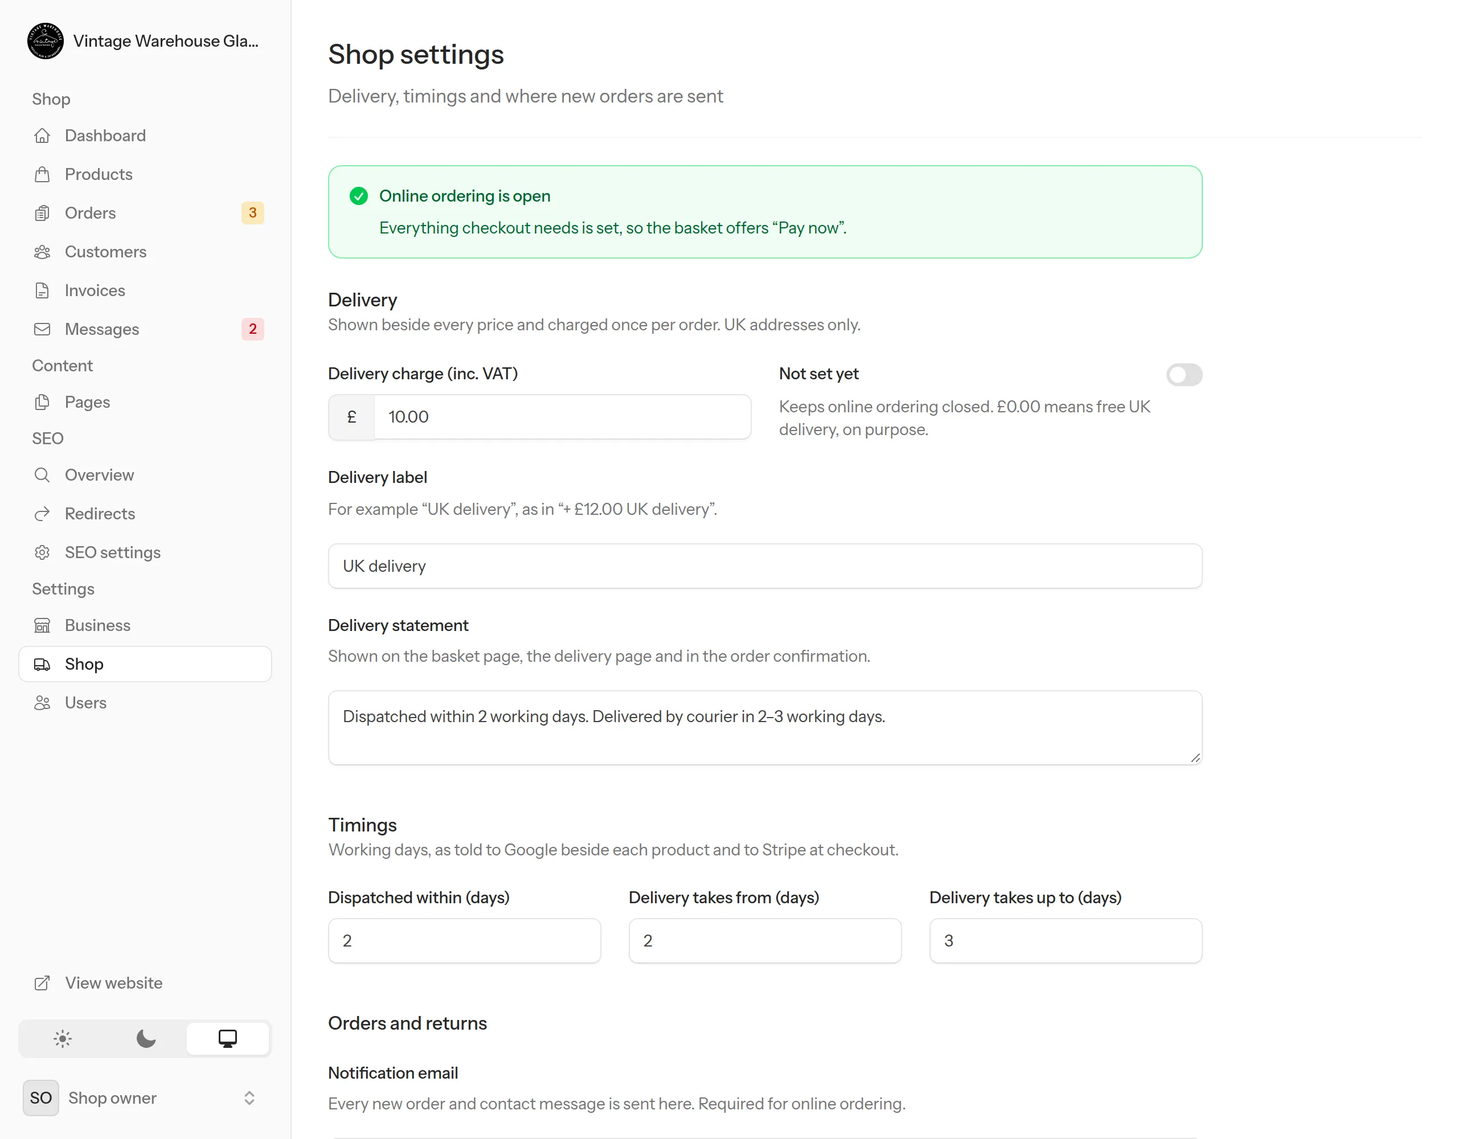
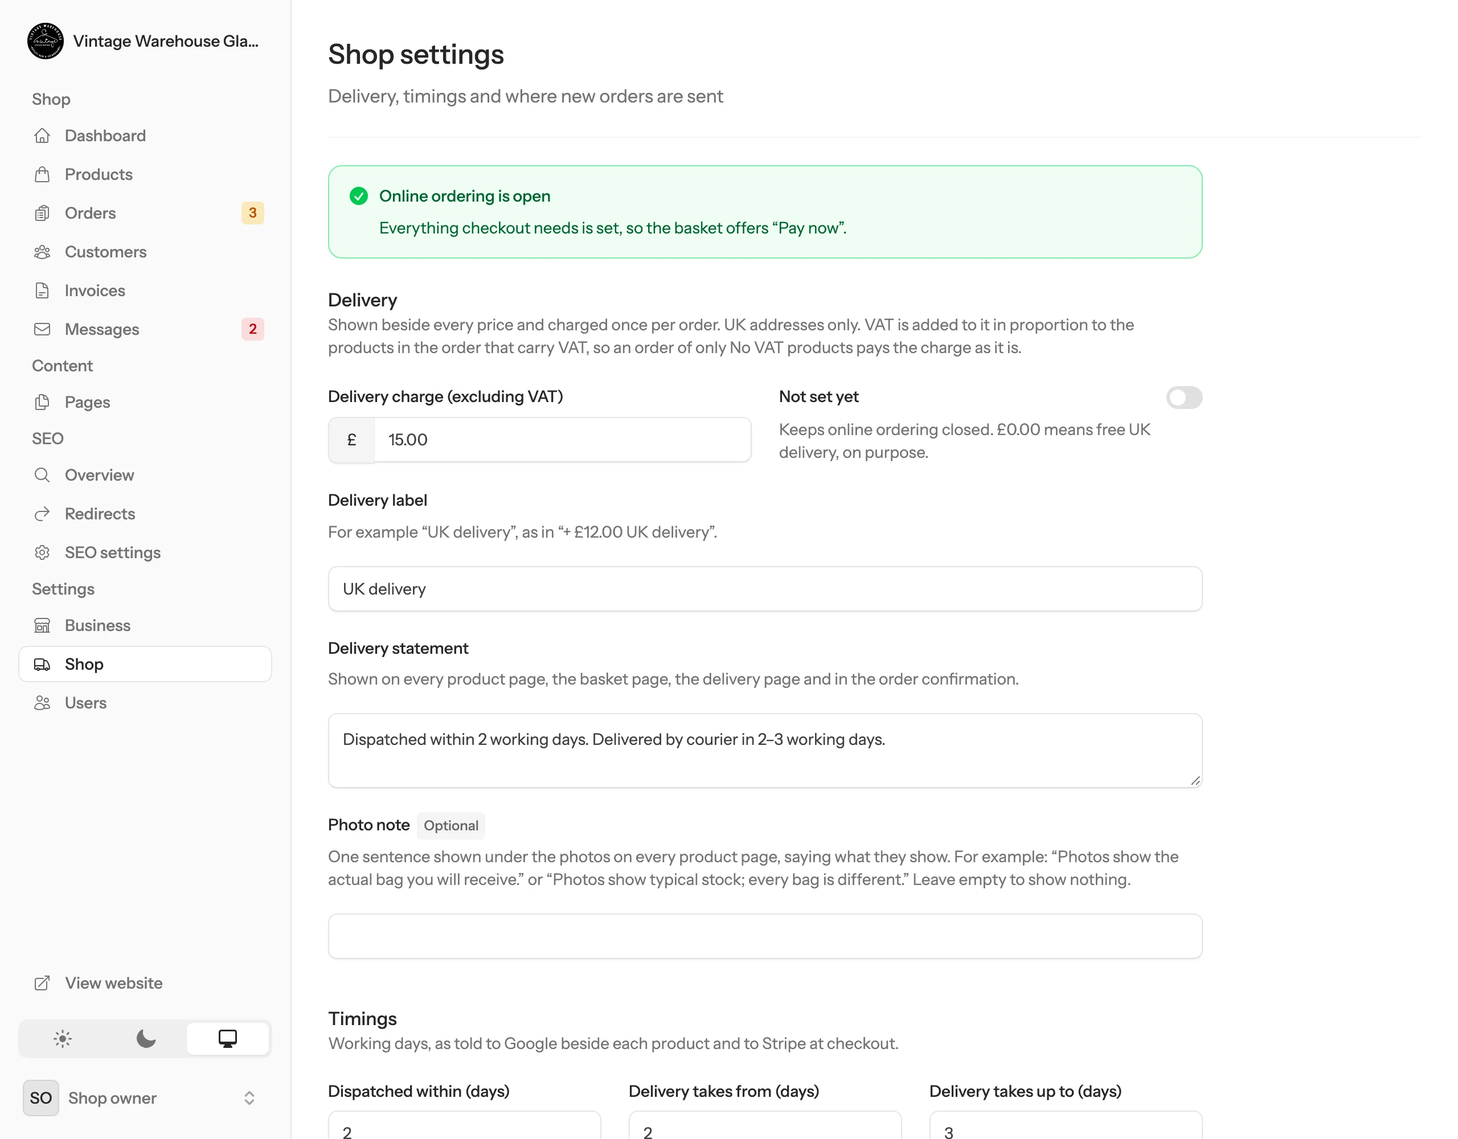
Screenshots Updated

diff --git a/customers.html b/customers.html
@@ -104,14 +104,14 @@
       </div>
 
       <h3 id="shop-page">The shop</h3>
-      <figure class="shot"><button type="button" aria-label="Open this screenshot full size"><img src="images/shop-shop.webp" alt="The shop page with All bags, Vintage and New buttons, a search box, and bag cards each showing a photo, name, weight and pieces, price and an Add to basket button." width="2560" height="1800" loading="lazy"></button><figcaption>The shop. Each card shows the price and the delivery charge.</figcaption></figure>
+      <figure class="shot"><button type="button" aria-label="Open this screenshot full size"><img src="images/shop-shop.webp" alt="The shop page with All bags, Vintage and New buttons, a search box, and bag cards each showing a photo, name, weight and pieces, the price marked exc VAT with the delivery charge, and an Add to basket button." width="2560" height="2228" loading="lazy"></button><figcaption>The shop. Each card shows the price before VAT and the delivery charge.</figcaption></figure>
       <ul class="list">
         <li>Use <span class="ui">All bags</span>, <span class="ui">Vintage</span> and <span class="ui">New</span> to choose what you see.</li>
         <li>Type in <strong>Search the bags</strong> to find a bag by name or what is in it, such as <em>denim</em> or <em>jackets</em>. Results appear as you type.</li>
         <li>Each card shows the weight, roughly how many pieces, the sizes and the price.</li>
         <li>Prices are shown <strong>before VAT</strong>, marked <em>exc VAT</em>; VAT is added at checkout. Products marked <em>No VAT</em> have none. (<a href="#faq-vat">More about VAT</a>)</li>
       </ul>
-      <figure class="shot"><button type="button" aria-label="Open this screenshot full size"><img src="images/shop-search.webp" alt="The shop after searching for denim, showing one matching bag." width="2560" height="1520" loading="lazy"></button><figcaption>Searching for “denim”.</figcaption></figure>
+      <figure class="shot"><button type="button" aria-label="Open this screenshot full size"><img src="images/shop-search.webp" alt="The shop after searching for denim, showing one matching bag." width="2560" height="2228" loading="lazy"></button><figcaption>Searching for “denim”.</figcaption></figure>
 
       <h3 id="product-page">A bag's page</h3>
       <p>Click a bag to see its photos and full description. Click a small photo to swap it in (on a phone, you can also swipe the main photo), or click the main photo to see all the photos full screen: swipe, use the arrow buttons or your keyboard's arrow keys to move between them, and press the cross (or Esc) to close.</p>
@@ -121,9 +121,9 @@
         <li>On a phone, the price and the <span class="ui">Add to basket</span> button stay at the bottom of the screen while you scroll.</li>
         <li>At the bottom of the page, <strong>More bags</strong> shows other bags in stock.</li>
       </ul>
-      <figure class="shot"><button type="button" aria-label="Open this screenshot full size"><img src="images/shop-product.webp" alt="A bag's page with a large photo on the left and, on the right, the name, details, price with the delivery charge, In stock, a quantity box and an Add to basket button." width="2560" height="1800" loading="lazy"></button><figcaption>A bag's page. Choose how many with − and +, then press Add to basket.</figcaption></figure>
+      <figure class="shot"><button type="button" aria-label="Open this screenshot full size"><img src="images/shop-product.webp" alt="A bag's page with a large photo on the left and, on the right, the name, a one-line summary, the weight, pieces and sizes, the price excluding VAT with the price including VAT and the delivery charge, In stock, a quantity box, an Add to basket button and ticked lines about dispatch, cancelling and paying." width="2560" height="1800" loading="lazy"></button><figcaption>A bag's page. Choose how many with − and +, then press Add to basket.</figcaption></figure>
       <p>Vintage bags are secondhand, so the clothes show the signs of wear that come with their age. When a bag has sold out, it says <strong>Sold out</strong>. Press <span class="ui">See bags in stock</span> to look at others, or <span class="ui">Ask us when it is back</span>: the contact form opens with a message about that bag already started, so you only add your name and email.</p>
-      <figure class="shot"><button type="button" aria-label="Open this screenshot full size"><img src="images/shop-product-sold-out.webp" alt="A sold-out bag's page with a large Sold out stamp, a greyed Sold out button, and links to see bags in stock or ask when it is back." width="2560" height="1640" loading="lazy"></button><figcaption>A sold-out bag.</figcaption></figure>
+      <figure class="shot"><button type="button" aria-label="Open this screenshot full size"><img src="images/shop-product-sold-out.webp" alt="A sold-out bag's page with a large Sold out stamp, its price and details, a greyed Sold out button, a See bags in stock button and an Ask us when it is back link." width="2560" height="1640" loading="lazy"></button><figcaption>A sold-out bag.</figcaption></figure>
     </section>
 
     <!-- 2 -->
@@ -131,9 +131,9 @@
       <div class="topic-head"><span class="num">2</span><h2>Your basket</h2><a class="anchor" href="#basket">Copy link</a></div>
       <p class="summary">Add as many bags as you like. Delivery is charged once per order, however many bags you buy.</p>
       <p>When you press <span class="ui">Add to basket</span> you stay on the page: a message appears in the corner, the number beside <strong>Basket</strong> at the top goes up, and the bag shows how many are in your basket. In the shop, its button becomes <strong>In basket</strong>.</p>
-      <figure class="shot"><button type="button" aria-label="Open this screenshot full size"><img src="images/shop-added.webp" alt="A bag's page just after adding it, with a message in the bottom corner saying Added to your basket, View basket, and the basket count at the top showing 1." width="2560" height="1800" loading="lazy"></button><figcaption>The “Added to your basket” message. Press View basket to go there.</figcaption></figure>
+      <figure class="shot"><button type="button" aria-label="Open this screenshot full size"><img src="images/shop-added.webp" alt="A bag's page just after adding it, with a message in the bottom corner saying Added to your basket, View basket, the line 1 in your basket above the button, and the basket count at the top showing 1." width="2560" height="1800" loading="lazy"></button><figcaption>The “Added to your basket” message. Press View basket to go there.</figcaption></figure>
       <p>Press <span class="ui">Basket</span> at the top of any page to see your basket.</p>
-      <figure class="shot"><button type="button" aria-label="Open this screenshot full size"><img src="images/shop-basket.webp" alt="The basket with two bags, each with a quantity box and a Remove link, then the subtotal, UK delivery, total including VAT, a note about delivery and cancelling, and a Pay now button." width="2560" height="2200" loading="lazy"></button><figcaption>The basket: change quantities, check the total, then press Pay now.</figcaption></figure>
+      <figure class="shot"><button type="button" aria-label="Open this screenshot full size"><img src="images/shop-basket.webp" alt="The basket with a mixed vintage bag marked exc VAT and a box of soft toys marked No VAT, each with a quantity box and a Remove link, then the subtotal before VAT, UK delivery, VAT and the total, a note about delivery and cancelling, and a Pay now button." width="2560" height="2380" loading="lazy"></button><figcaption>The basket: change quantities, check the VAT and the total, then press Pay now.</figcaption></figure>
       <ul class="list">
         <li>Use <span class="ui">−</span> and <span class="ui">+</span>, or type a number, to change how many. Press <span class="ui">Remove</span> to take a bag out.</li>
         <li>Prices in the basket are before VAT. Under them you see the subtotal, the UK delivery charge, the VAT and the total you pay. Delivery is to UK addresses only.</li>
@@ -158,7 +158,7 @@
       </div>
       <h3 id="pay-faster">Paying faster next time</h3>
       <p>If you are logged in to your account, your basket shows who you are paying as and where it is going, and Stripe's page comes with your details filled in and your saved cards ready. There you can tick the box to save the card you pay with.</p>
-      <figure class="shot"><button type="button" aria-label="Open this screenshot full size"><img src="images/shop-basket-signed-in.webp" alt="The basket of a logged-in customer showing Paying as with their email, Delivering to with their saved address, and a Change your details link, above the Pay now button." width="2560" height="2200" loading="lazy"></button><figcaption>Logged in: “Paying as” and “Delivering to” show above Pay now.</figcaption></figure>
+      <figure class="shot"><button type="button" aria-label="Open this screenshot full size"><img src="images/shop-basket-signed-in.webp" alt="The basket of a logged-in customer showing Paying as with their email, Delivering to with their saved address, and a Change your details link, above the Pay now button." width="2560" height="2640" loading="lazy"></button><figcaption>Logged in: “Paying as” and “Delivering to” show above Pay now.</figcaption></figure>
       <p>Not logged in? You can still pay as a guest; your account is made for you after your first order (see <a href="#account">Your account</a>).</p>
       <h3 id="payment-not-completed">If you change your mind on the payment page</h3>
       <p>Use the back link at the top of Stripe's page. You see <strong>“Payment not completed”</strong>: nothing was charged and your basket is just as you left it.</p>
@@ -175,7 +175,7 @@
         <li><strong>“Your Vintage Warehouse Glasgow account: set a password to see your orders”</strong>: on your first order only. Press <span class="ui">Set your password</span> within 24 hours to start using your account.</li>
       </ul>
       <div class="pair">
-        <figure class="shot tall"><button type="button" aria-label="Open this screenshot full size"><img src="images/email-order.webp" alt="The order confirmation email: Thank you for your order, the order number, a table of bags, delivery and total paid, then the delivery details, who you bought from and your right to cancel." width="1440" height="6400" loading="lazy"></button><figcaption>The confirmation email (your invoice is attached).</figcaption></figure>
+        <figure class="shot tall"><button type="button" aria-label="Open this screenshot full size"><img src="images/email-order.webp" alt="The order confirmation email: Thank you for your order, the order number, a table of bags (one marked no VAT), delivery, VAT and total paid, then the delivery details, who you bought from and your right to cancel." width="1440" height="6556" loading="lazy"></button><figcaption>The confirmation email (your invoice is attached).</figcaption></figure>
         <figure class="shot"><button type="button" aria-label="Open this screenshot full size"><img src="images/email-invitation.webp" alt="The account email: Your orders, in one place, explaining that an account has been set up, with a Set your password button that lasts 24 hours." width="1440" height="1826" loading="lazy"></button><figcaption>The account email after your first order.</figcaption></figure>
       </div>
       <p>We pack your order and send it by courier. Your account shows <strong>Being packed</strong> while we prepare it and <strong>Dispatched</strong> once it has gone, with the date. If you need anything, <a href="#contact">contact us</a> and quote your order number.</p>
@@ -250,7 +250,7 @@
         </table>
       </div>
       <p>Click an order to see the bags, the delivery address and each step with its date and time. Press <span class="ui">View invoice</span> to open or print your VAT invoice.</p>
-      <figure class="shot"><button type="button" aria-label="Open this screenshot full size"><img src="images/shop-account-order.webp" alt="One order's page with its status, the Ordered and Paid steps with dates, the bags, delivery and total paid, the delivery address and View invoice and Back to your orders buttons." width="2560" height="2600" loading="lazy"></button><figcaption>One order. “Something not right?” at the bottom tells you how to reach us.</figcaption></figure>
+      <figure class="shot"><button type="button" aria-label="Open this screenshot full size"><img src="images/shop-account-order.webp" alt="One order's page with its status, the Ordered and Paid steps with dates, the bags with their prices before VAT, the subtotal, UK delivery, VAT and total paid, the delivery address and View invoice and Back to your orders buttons." width="2560" height="2472" loading="lazy"></button><figcaption>One order. “Something not right?” at the bottom tells you how to reach us.</figcaption></figure>
     </section>
 
     <!-- 7 -->

diff --git a/admin.html b/admin.html
@@ -288,7 +288,7 @@
         <li>Pack and send the parcel.</li>
         <li>Press <span class="ui">Mark fulfilled</span>, then <span class="ui">Mark fulfilled</span> again in the box that asks you to confirm.</li>
       </ol>
-      <figure class="shot"><button type="button" aria-label="Open this screenshot full size"><img src="images/admin-order.webp" alt="An order page: Order 0068 marked Paid, with Mark fulfilled and Download invoice buttons, the items and totals, admin notes, and boxes for the customer, delivery and billing addresses, Stripe and the timeline." width="2560" height="2000" loading="lazy"></button><figcaption>An order page. The timeline at the bottom right shows every step with its time, including when the emails went out.</figcaption></figure>
+      <figure class="shot"><button type="button" aria-label="Open this screenshot full size"><img src="images/admin-order.webp" alt="An order page: Order 0068 marked Paid, with Mark fulfilled and Download invoice buttons, the item with its unit price before VAT and its VAT rate, the subtotal, delivery, VAT and total, admin notes, and boxes for the customer, delivery and billing addresses, Stripe and the timeline." width="2560" height="2000" loading="lazy"></button><figcaption>An order page. The timeline at the bottom right shows every step with its time, including when the emails went out.</figcaption></figure>
       <figure class="shot"><button type="button" aria-label="Open this screenshot full size"><img src="images/admin-order-fulfil.webp" alt="A box asking Mark this order fulfilled? Use this once the parcel has been dispatched. The customer is not emailed, and it cannot be undone. With Cancel and Mark fulfilled buttons." width="2560" height="1520" loading="lazy"></button><figcaption>The website asks before marking an order fulfilled.</figcaption></figure>
       <div class="note important">
         <svg viewBox="0 0 24 24" fill="none" stroke="currentColor" stroke-width="1.8" stroke-linecap="round" stroke-linejoin="round" aria-hidden="true"><path d="M12 3 2 20h20L12 3z"/><path d="M12 10v4M12 17h.01"/></svg>
@@ -396,7 +396,7 @@
     <section class="topic" id="products">
       <div class="topic-head"><span class="num">9</span><h2>Products</h2><a class="anchor" href="#products">Copy link</a></div>
       <p class="summary">The bags for sale. Each one has a name, a price before VAT, stock, photos and a description.</p>
-      <figure class="shot"><button type="button" aria-label="Open this screenshot full size"><img src="images/admin-products.webp" alt="The Products list with a photo, name, SKU, kind, price, stock, available count and a Published switch for each bag." width="2560" height="1520" loading="lazy"></button><figcaption>The Products list. The Published switch takes a bag in or out of the shop straight away.</figcaption></figure>
+      <figure class="shot"><button type="button" aria-label="Open this screenshot full size"><img src="images/admin-products.webp" alt="The Products list with Import, Export and New product buttons, and for each bag a tick box, photo, name, SKU, kind, price with + VAT or No VAT under it, stock, available count and a Published switch." width="2560" height="1498" loading="lazy"></button><figcaption>The Products list. The Published switch takes a bag in or out of the shop straight away.</figcaption></figure>
       <ul class="list">
         <li>Search by name or SKU, and use the menu to show <strong>Published</strong>, <strong>Unpublished</strong> or <strong>Sold out</strong> bags.</li>
         <li>The <strong>Price</strong> is before VAT, with <strong>+ VAT</strong> or <strong>No VAT</strong> under it (<a href="#vat">how VAT works</a>).</li>
@@ -416,7 +416,7 @@
         <li>Leave <strong>Published</strong> on to put it in the shop straight away. Switch <strong>Featured</strong> on to show it first on the home page.</li>
         <li>Press <span class="ui">Create product</span>. The edit page opens: give each photo its <strong>alt text</strong> (see below) and check everything with <span class="ui">View in shop</span>.</li>
       </ol>
-      <figure class="shot"><button type="button" aria-label="Open this screenshot full size"><img src="images/admin-product-new.webp" alt="The New product form with Name, Kind, SKU, Short description and Description on the left, and Price, Stock, Weight, Pieces, Sizes, Position, Published and Featured on the right." width="2560" height="2000" loading="lazy"></button><figcaption>The New product form.</figcaption></figure>
+      <figure class="shot"><button type="button" aria-label="Open this screenshot full size"><img src="images/admin-product-new.webp" alt="The New product form with Name, Kind, SKU, Short description and Description on the left, and Price (excluding VAT), the Add VAT at checkout switch, Stock, Weight, Pieces, Sizes and Position on the right." width="2560" height="2000" loading="lazy"></button><figcaption>The New product form.</figcaption></figure>
 
       <h3 id="product-fields">What each field does</h3>
       <div class="table-wrap">
@@ -486,7 +486,7 @@
         <li>While a customer is paying, their bags are held for 35 minutes. If a bag looks sold out but you have stock, someone is probably paying for it right now.</li>
         <li>If someone buys while you have the edit page open and you also changed Stock, the website asks you to check the number again before saving, so no sale is lost.</li>
       </ul>
-      <figure class="shot"><button type="button" aria-label="Open this screenshot full size"><img src="images/admin-product-edit.webp" alt="The edit page of a product showing Published and last saved at the top, View in shop and Delete buttons, and the product's fields." width="2560" height="2000" loading="lazy"></button><figcaption>Editing a bag. Press Save at the bottom when you are done.</figcaption></figure>
+      <figure class="shot"><button type="button" aria-label="Open this screenshot full size"><img src="images/admin-product-edit.webp" alt="The edit page of a product showing Published and last saved at the top, View in shop and Delete buttons, and the product's fields, including Price (excluding VAT) and Add VAT at checkout." width="2560" height="2000" loading="lazy"></button><figcaption>Editing a bag. Press Save at the bottom when you are done.</figcaption></figure>
 
       <h3 id="delete-product">Removing a bag</h3>
       <p>To take a bag out of the shop for a while, switch <strong>Published</strong> off. To remove it for good, use <span class="ui">Delete</span>. Past orders keep their own copy of the details, so deleting a bag never changes an order or invoice. A deleted bag's web address stops working; add a <a href="#redirects">redirect</a> if it was shared widely.</p>
@@ -500,6 +500,7 @@
         <li>Choose which bags: the ticked ones, the ones your search and filter show, or all of them. Then choose the columns; all are ticked to start.</li>
         <li>Press <span class="ui">Download CSV</span>.</li>
       </ol>
+      <figure class="shot"><button type="button" aria-label="Open this screenshot full size"><img src="images/admin-products-export.webp" alt="The Export products box over the Products list, with two bags ticked, Which products set to the 2 selected products, every column ticked, and a Download CSV button." width="2560" height="2000" loading="lazy"></button><figcaption>Exporting two ticked bags.</figcaption></figure>
       <p><strong>To import:</strong></p>
       <ol class="steps">
         <li>On <strong>Products</strong>, press <span class="ui">Import</span>.</li>
@@ -509,6 +510,7 @@
         <li><strong>Check the preview.</strong> Each row says <em>New product</em>, <em>Update</em> (with every change, such as “Price: £50.00 → £55.00”), <em>Put back</em> (a deleted bag whose web address is in the file), <em>Skipped</em> or <em>Problem</em> (with the reason). Nothing is saved yet.</li>
         <li>Press the import button under the preview, which says how many bags it will add or change (for example <span class="ui">Import 4 products</span>). Rows with problems are left out and listed afterwards: correct them in the spreadsheet and import the file again.</li>
       </ol>
+      <figure class="shot"><button type="button" aria-label="Open this screenshot full size"><img src="images/admin-products-import.webp" alt="The Import products page after choosing a file: each column matched to a product detail, the three import choices, and a preview with two updates (a price change and a stock change) and one new product, above an Import 3 products button." width="2560" height="2366" loading="lazy"></button><figcaption>The preview shows every change before anything is saved.</figcaption></figure>
       <ul class="list">
         <li>A row changes an existing bag when its <strong>ID</strong>, <strong>SKU</strong> or <strong>web address</strong> matches one. Any other row adds a new bag. Keep the ID column in an export you mean to import again.</li>
         <li>Only the columns in the file are changed. A file with just ID, Price and Stock changes only prices and stock.</li>
@@ -622,7 +624,7 @@
     <section class="topic" id="delivery">
       <div class="topic-head"><span class="num">13</span><h2>Delivery and ordering</h2><a class="anchor" href="#delivery">Copy link</a></div>
       <p class="summary">Settings → Shop (admins and shop managers): the delivery charge and times, the photo note, and where new orders are emailed.</p>
-      <figure class="shot"><button type="button" aria-label="Open this screenshot full size"><img src="images/admin-shop-settings.webp" alt="The Shop settings page with a green box saying Online ordering is open, then the Delivery, Timings and Orders and returns sections." width="2560" height="2000" loading="lazy"></button><figcaption>The box at the top says whether online ordering is open, and lists what is missing if not.</figcaption></figure>
+      <figure class="shot"><button type="button" aria-label="Open this screenshot full size"><img src="images/admin-shop-settings.webp" alt="The Shop settings page with a green box saying Online ordering is open, then the Delivery section with the delivery charge excluding VAT, the delivery label, the delivery statement and the photo note, and the start of Timings." width="2560" height="2000" loading="lazy"></button><figcaption>The box at the top says whether online ordering is open, and lists what is missing if not.</figcaption></figure>
 
       <h3 id="ordering-open">When can customers pay?</h3>
       <p>Customers can pay only when four things are set: the <strong>delivery charge</strong>, the <strong>notification email</strong>, the shop's <strong>public email</strong> (Settings → Business) and the <strong>Stripe key</strong> (the developer). Until then the basket says <em>“Online ordering opens soon”</em>, and the rest of the website works as normal.</p>
